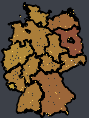
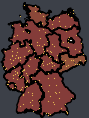
add colors for points, clean up file

diff --git a/main.py b/main.py
@@ -32,9 +32,9 @@ with open(PATH + '/meta_data.json', 'r') as f:
 title = meta_data["Title"]
 crop_s = meta_data["Cropping"]["small"]
 crop_l = meta_data["Cropping"]["large"]
-unvisited = meta_data["Colors"]["unvisited"]
-active = meta_data["Colors"]["active"]
-visited = meta_data["Colors"]["visited"]
+color_unvisited = meta_data["Colors"]["unvisited"]
+color_active = meta_data["Colors"]["active"]
+color_visited = meta_data["Colors"]["visited"]
 marker_size = meta_data["Marker Size"]
 label_loc = meta_data["Labels"]
 
@@ -42,11 +42,6 @@ label_loc = meta_data["Labels"]
 submap_files = os.listdir(PATH + '/submaps/')
 submaps = [submap.replace('.shp', '') for submap in submap_files if '.shp' in submap]
 submaps.sort()
-
-# Define Map Colors
-#color_list = list(md['color'])
-#cmap = custom_cmap()
-#colors = cmap(color_list, len(color_list))
 
 # CSV into GeoDataFrame
 df = pd.read_table(PATH + '/locations.csv', delimiter =",")
@@ -96,8 +91,6 @@ for index, row in points_gdf.iterrows():
 
                 # Load submap
                 submap_gdf = gpd.read_file(shapefile_dir + submap + ".shp")
-                #submap_gdf = submap_gdf[submap_gdf["shapeISO"] == f"DE-{submap}"]
-                #submap_gdf = submap_gdf.to_crs("EPSG:4326")
 
                 # Plot submap
                 submap_gdf.plot(ax=plt.gca(), edgecolor="black", linewidth=1, color=submap_color, alpha=1)
@@ -105,8 +98,7 @@ for index, row in points_gdf.iterrows():
             # Plot All Points for Scaling
             points_gdf.plot(
                 ax=plt.gca(), 
-                edgecolor="darkgoldenrod", 
-                color="#e7ba52", 
+                color=color_unvisited, 
                 linewidth=0, 
                 markersize=marker_size*(SCALE*SCALE), 
                 alpha=1
@@ -117,8 +109,7 @@ for index, row in points_gdf.iterrows():
             if visited.any():
                 points_gdf[visited].plot(
                     ax=plt.gca(), 
-                    edgecolor="darkgoldenrod", 
-                    color="#353535", 
+                    color=color_visited, 
                     linewidth=0, 
                     markersize=marker_size*(SCALE*SCALE), 
                     alpha=1
@@ -129,8 +120,7 @@ for index, row in points_gdf.iterrows():
             if active.any():
                 points_gdf[active].plot(
                     ax=plt.gca(), 
-                    edgecolor="darkgoldenrod", 
-                    color="#EAEAEA", 
+                    color=color_active, 
                     linewidth=0, 
                     markersize=marker_size*(SCALE*SCALE), 
                     alpha=1
@@ -139,7 +129,6 @@ for index, row in points_gdf.iterrows():
             # Plot All Points for Scaling
             points_gdf.plot(
                 ax=plt.gca(), 
-                edgecolor="darkgoldenrod", 
                 color="black", 
                 linewidth=0, 
                 markersize=marker_size*(SCALE*SCALE), 
